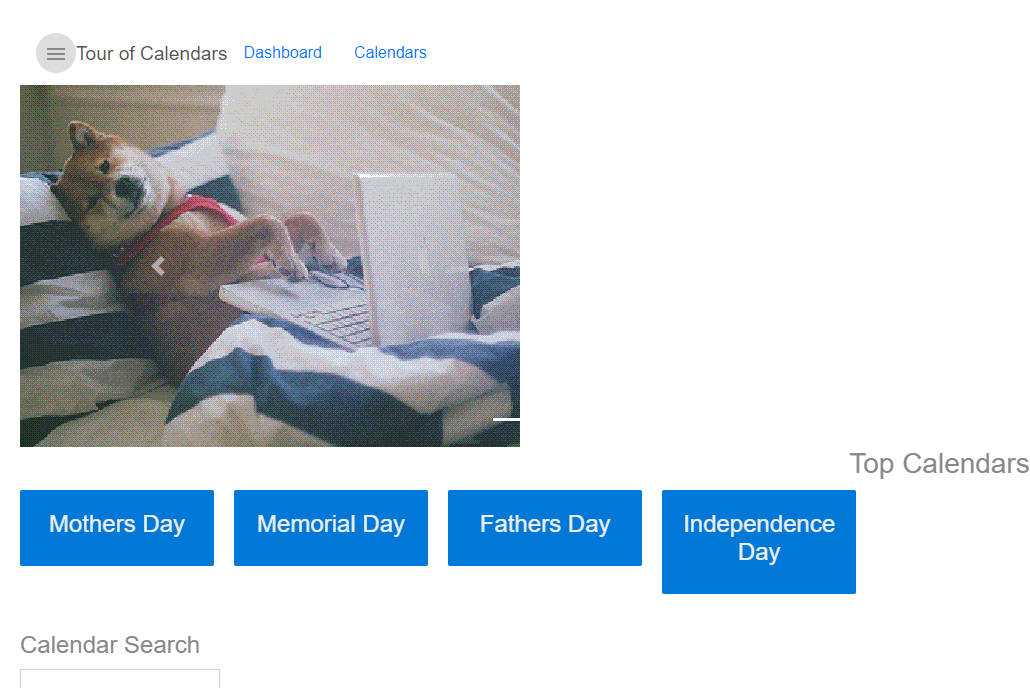
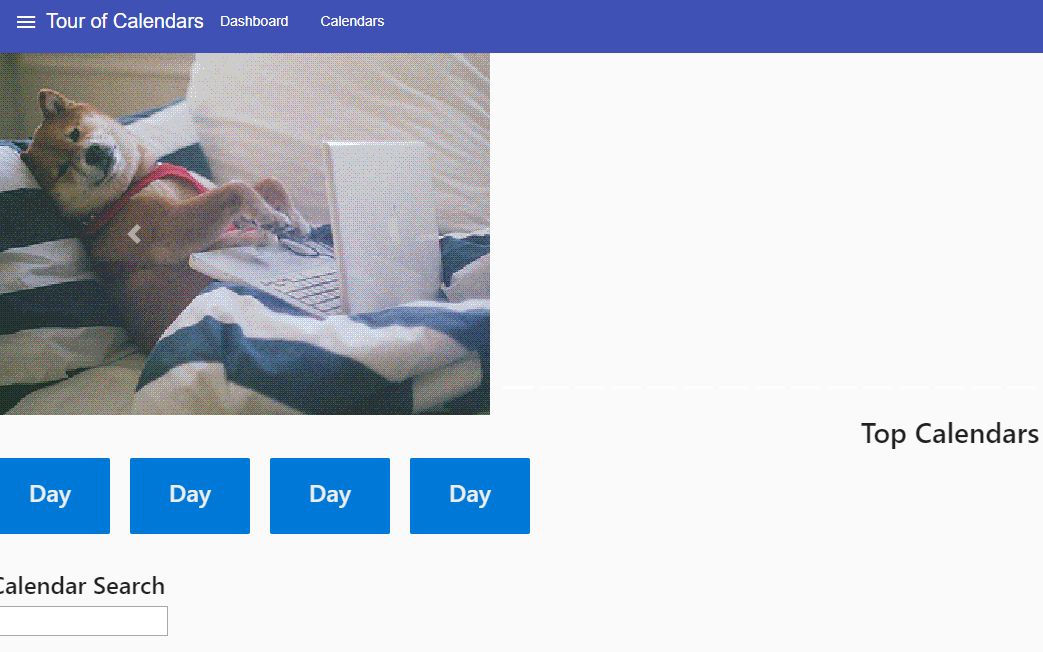
i didn't break it yay css

diff --git a/src/app/calendars/calendars.component.css b/src/app/calendars/calendars.component.css
@@ -1,4 +1,4 @@
-.selected {
+/* .selected {
   background-color: #CFD8DC !important;
   background-color: rgb(0,120,215) !important;
   color: white;
@@ -25,9 +25,9 @@
   background-color: #DDD;
   left: .1em;
 }
-.calendars li.selected:hover {
+.calendars li.selected:hover { */
   /*background-color: #BBD8DC !important;*/
-  color: white;
+  /* color: white;
 }
 .calendars .text {
   position: relative;
@@ -66,4 +66,4 @@ button.delete-button{
   background-color: gray !important;
   background-color: rgb(216,59,1) !important;
   color:white;
-}
+} */

diff --git a/src/styles.css b/src/styles.css
@@ -1,8 +1,8 @@
 /* You can add global styles to this file, and also import other style files */
-/* @import "~@angular/material/prebuilt-themes/indigo-pink.css"; */
+@import "~@angular/material/prebuilt-themes/indigo-pink.css";
 
-h2 { color: #444; font-weight: lighter; }
+/* h2 { color: #444; font-weight: lighter; }
 body { margin: 2em; }
 body, input[text], button { color: #888; font-family: Cambria, Georgia; }
 button { padding: 0.2em; font-size: 14px}
-* { font-family: Arial; }
+* { font-family: Arial; } */

diff --git a/src/app/app.component.html b/src/app/app.component.html
@@ -16,8 +16,7 @@
   </main>
 
   <mat-sidenav-container>
-    <mat-sidenav #sidenav mode="over" [(opened)]="opened" (opened)="events.over('open!')"
-      (closed)="events.over('close!')">
+    <mat-sidenav #sidenav>
       <mat-nav-list>
         <a mat-button routerLink="/dashboard" routerLinkActive="active">Dashboard</a>
         <a mat-button routerLink="/calendars" routerLinkActive="active">Calendars</a>

diff --git a/src/main.ts b/src/main.ts
@@ -4,6 +4,9 @@ import { platformBrowserDynamic } from '@angular/platform-browser-dynamic';
 import { AppModule } from './app/app.module';
 import { environment } from './environments/environment';
 
+import 'hammerjs';
+
+
 if (environment.production) {
   enableProdMode();
 }

diff --git a/src/app/calendar-search/calendar-search.component.css b/src/app/calendar-search/calendar-search.component.css
@@ -1,4 +1,4 @@
-.search-result{
+/* .search-result{
   border-bottom: 1px solid gray;
   border-left: 1px solid gray;
   border-right: 1px solid gray;
@@ -13,4 +13,4 @@
   width: 200px;
   height: 20px;
   border: 1px solid lightgray;
-}
+} */

diff --git a/src/app/calendar-detail/calendar-detail.component.css b/src/app/calendar-detail/calendar-detail.component.css
@@ -1,4 +1,4 @@
-label {
+/* label {
   display: inline-block;
   width: 3em;
   margin: .5em 0;
@@ -27,4 +27,4 @@ button:disabled {
   background-color: #eee;
   color: #ccc;
   cursor: auto;
-}
+} */

diff --git a/src/app/app.component.css b/src/app/app.component.css
@@ -1,4 +1,4 @@
-h1 {
+/* h1 {
   font-size: 1.2em;
   color: #999;
   color: #555;
@@ -32,4 +32,4 @@ nav a.router-link-active {
   height: 4px;
   margin-top: 10px;
   margin-bottom: 10px;
-}
+} */

diff --git a/README.md b/README.md
@@ -4,8 +4,13 @@
     * It is appears under the existing content or else it's transparent
     * It doesn't close until you click the menu button again
     
-* I'm scared to mess with the css
+* I changed over to angular theming and didn't break it!
+    * Needs a core
 * The calendar list needs to be a chiplist, except I don't care lol
+
+## Errors:
+* Angular is running in the development mode. Call enableProdMode() to enable the production mode.
+* sockjs.js:2998 WebSocket connection to 'ws://localhost:4200/sockjs-node/074/nrgdwlyn/websocket' failed: WebSocket is closed before the connection is established.
 
 ## 8/28/19 Images:
 ![Dashboard](https://github.com/JessicaNations/angular-safari/blob/master/src/assets/images/dashboard8-29.png)
